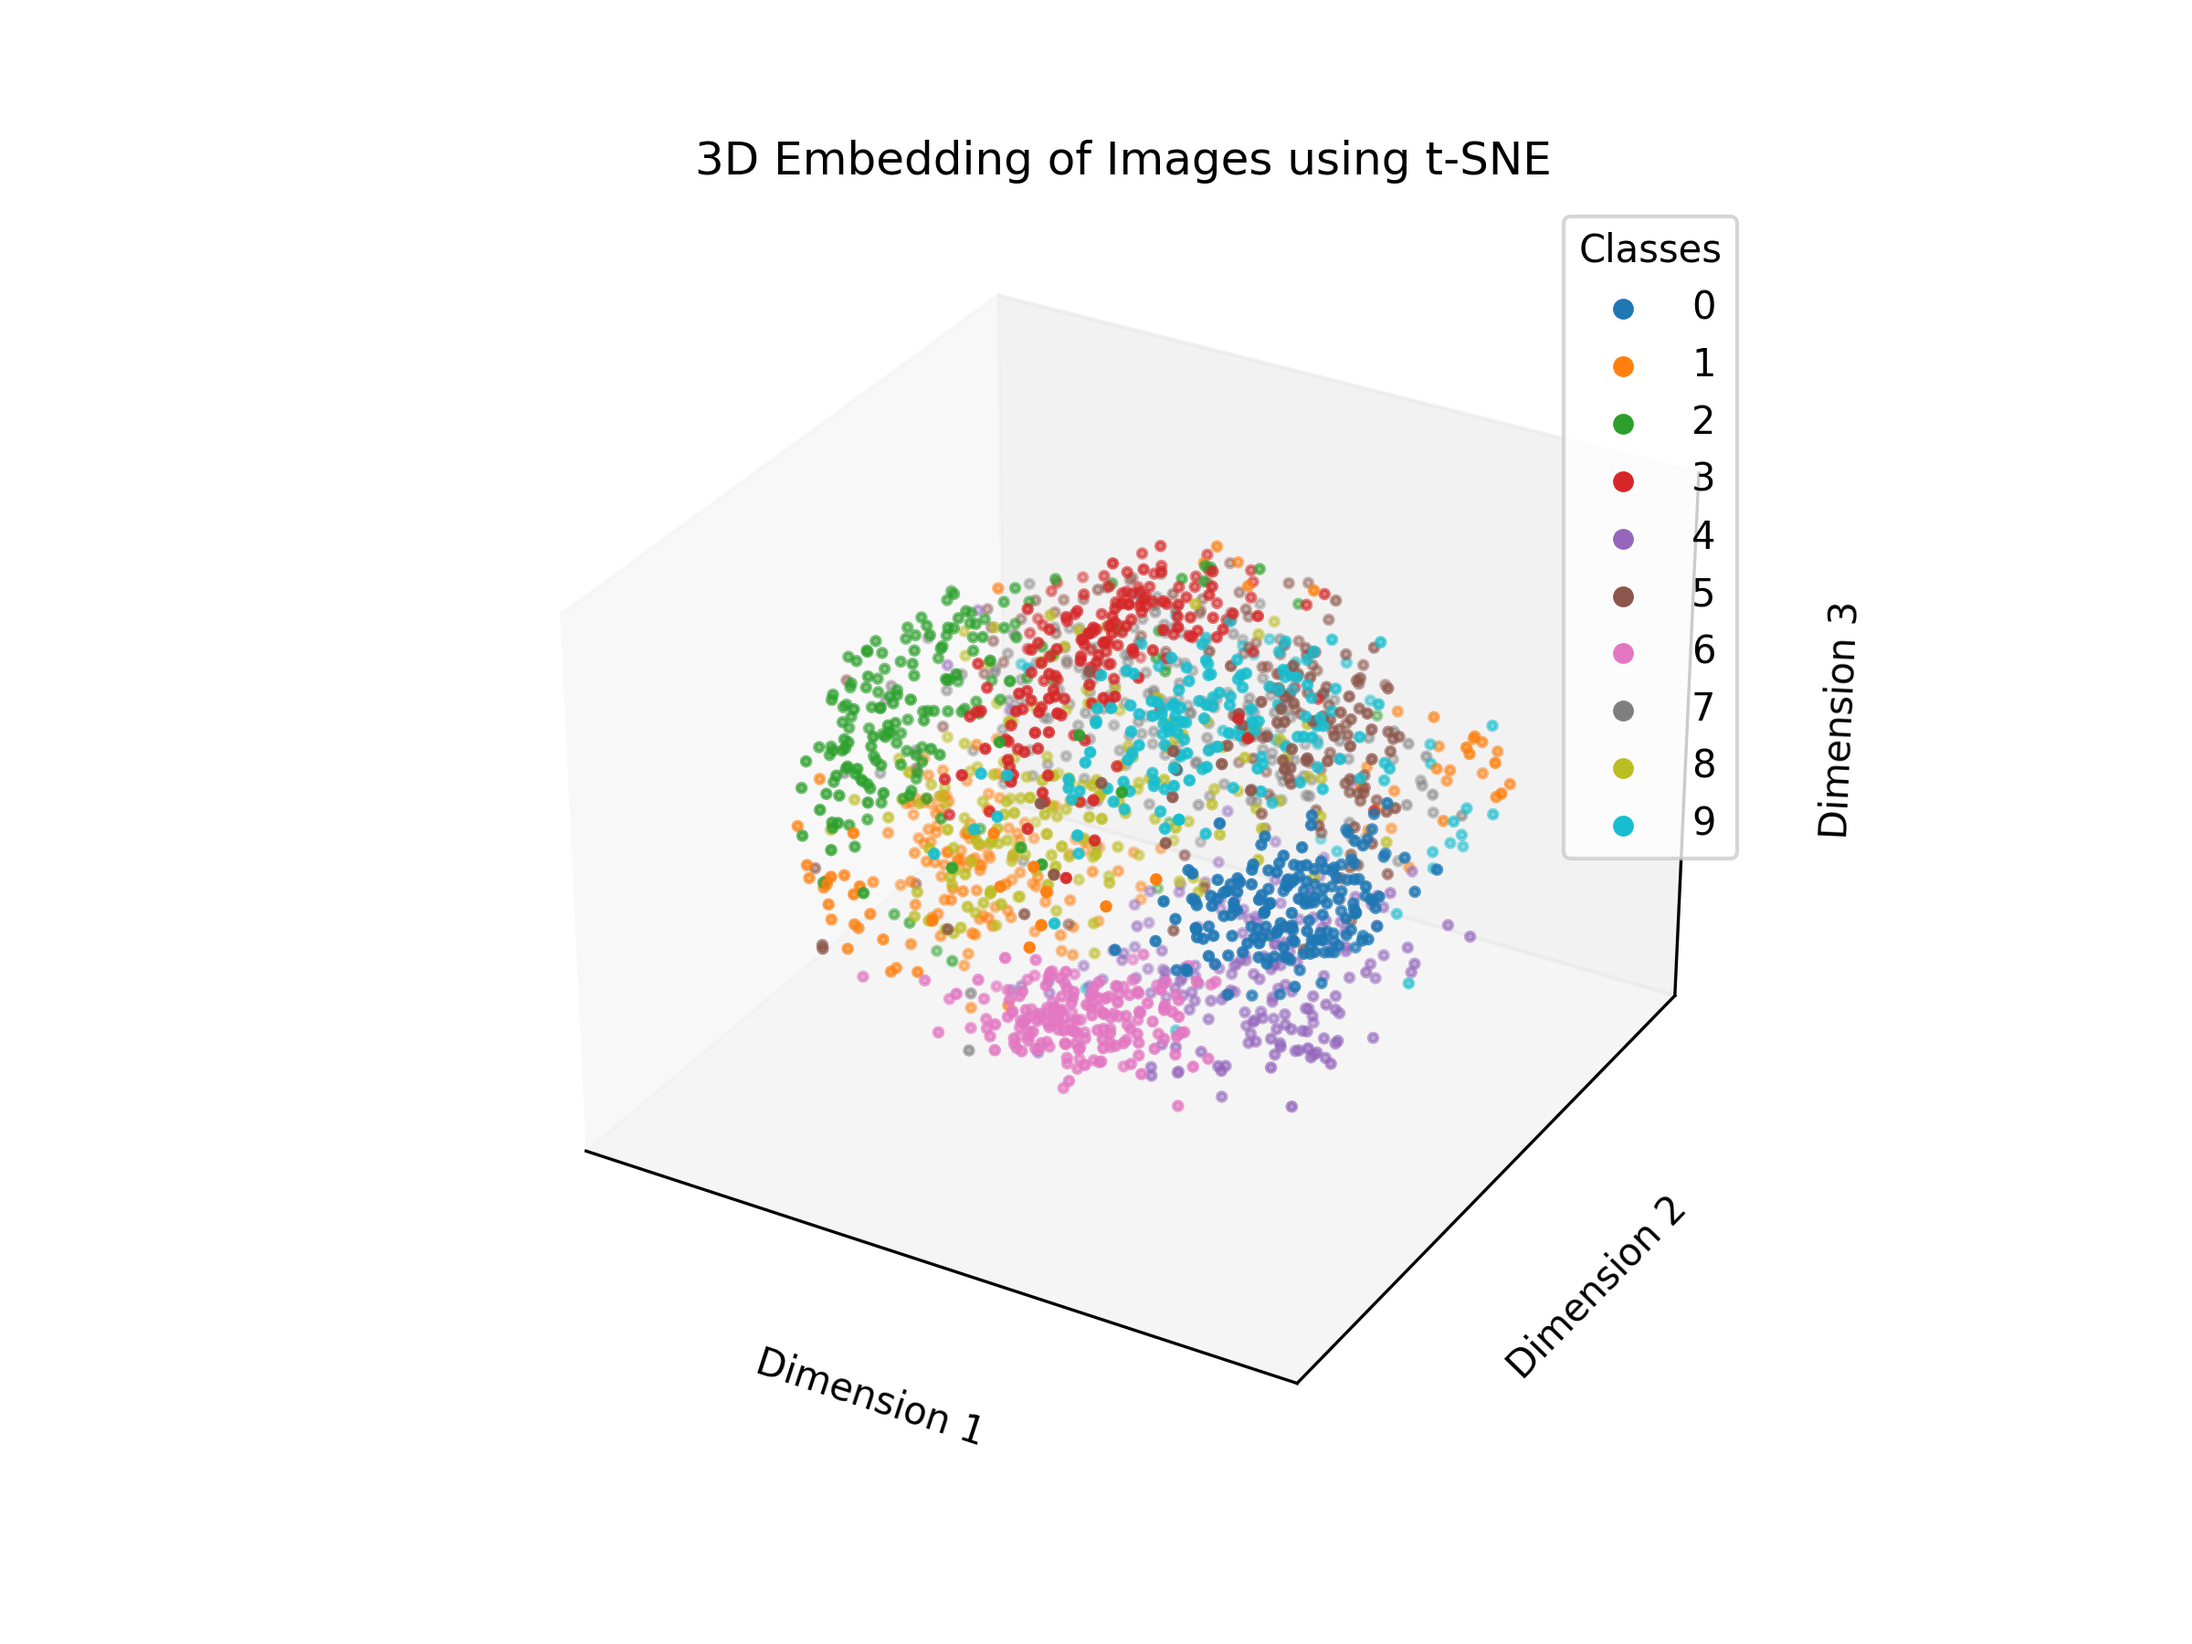
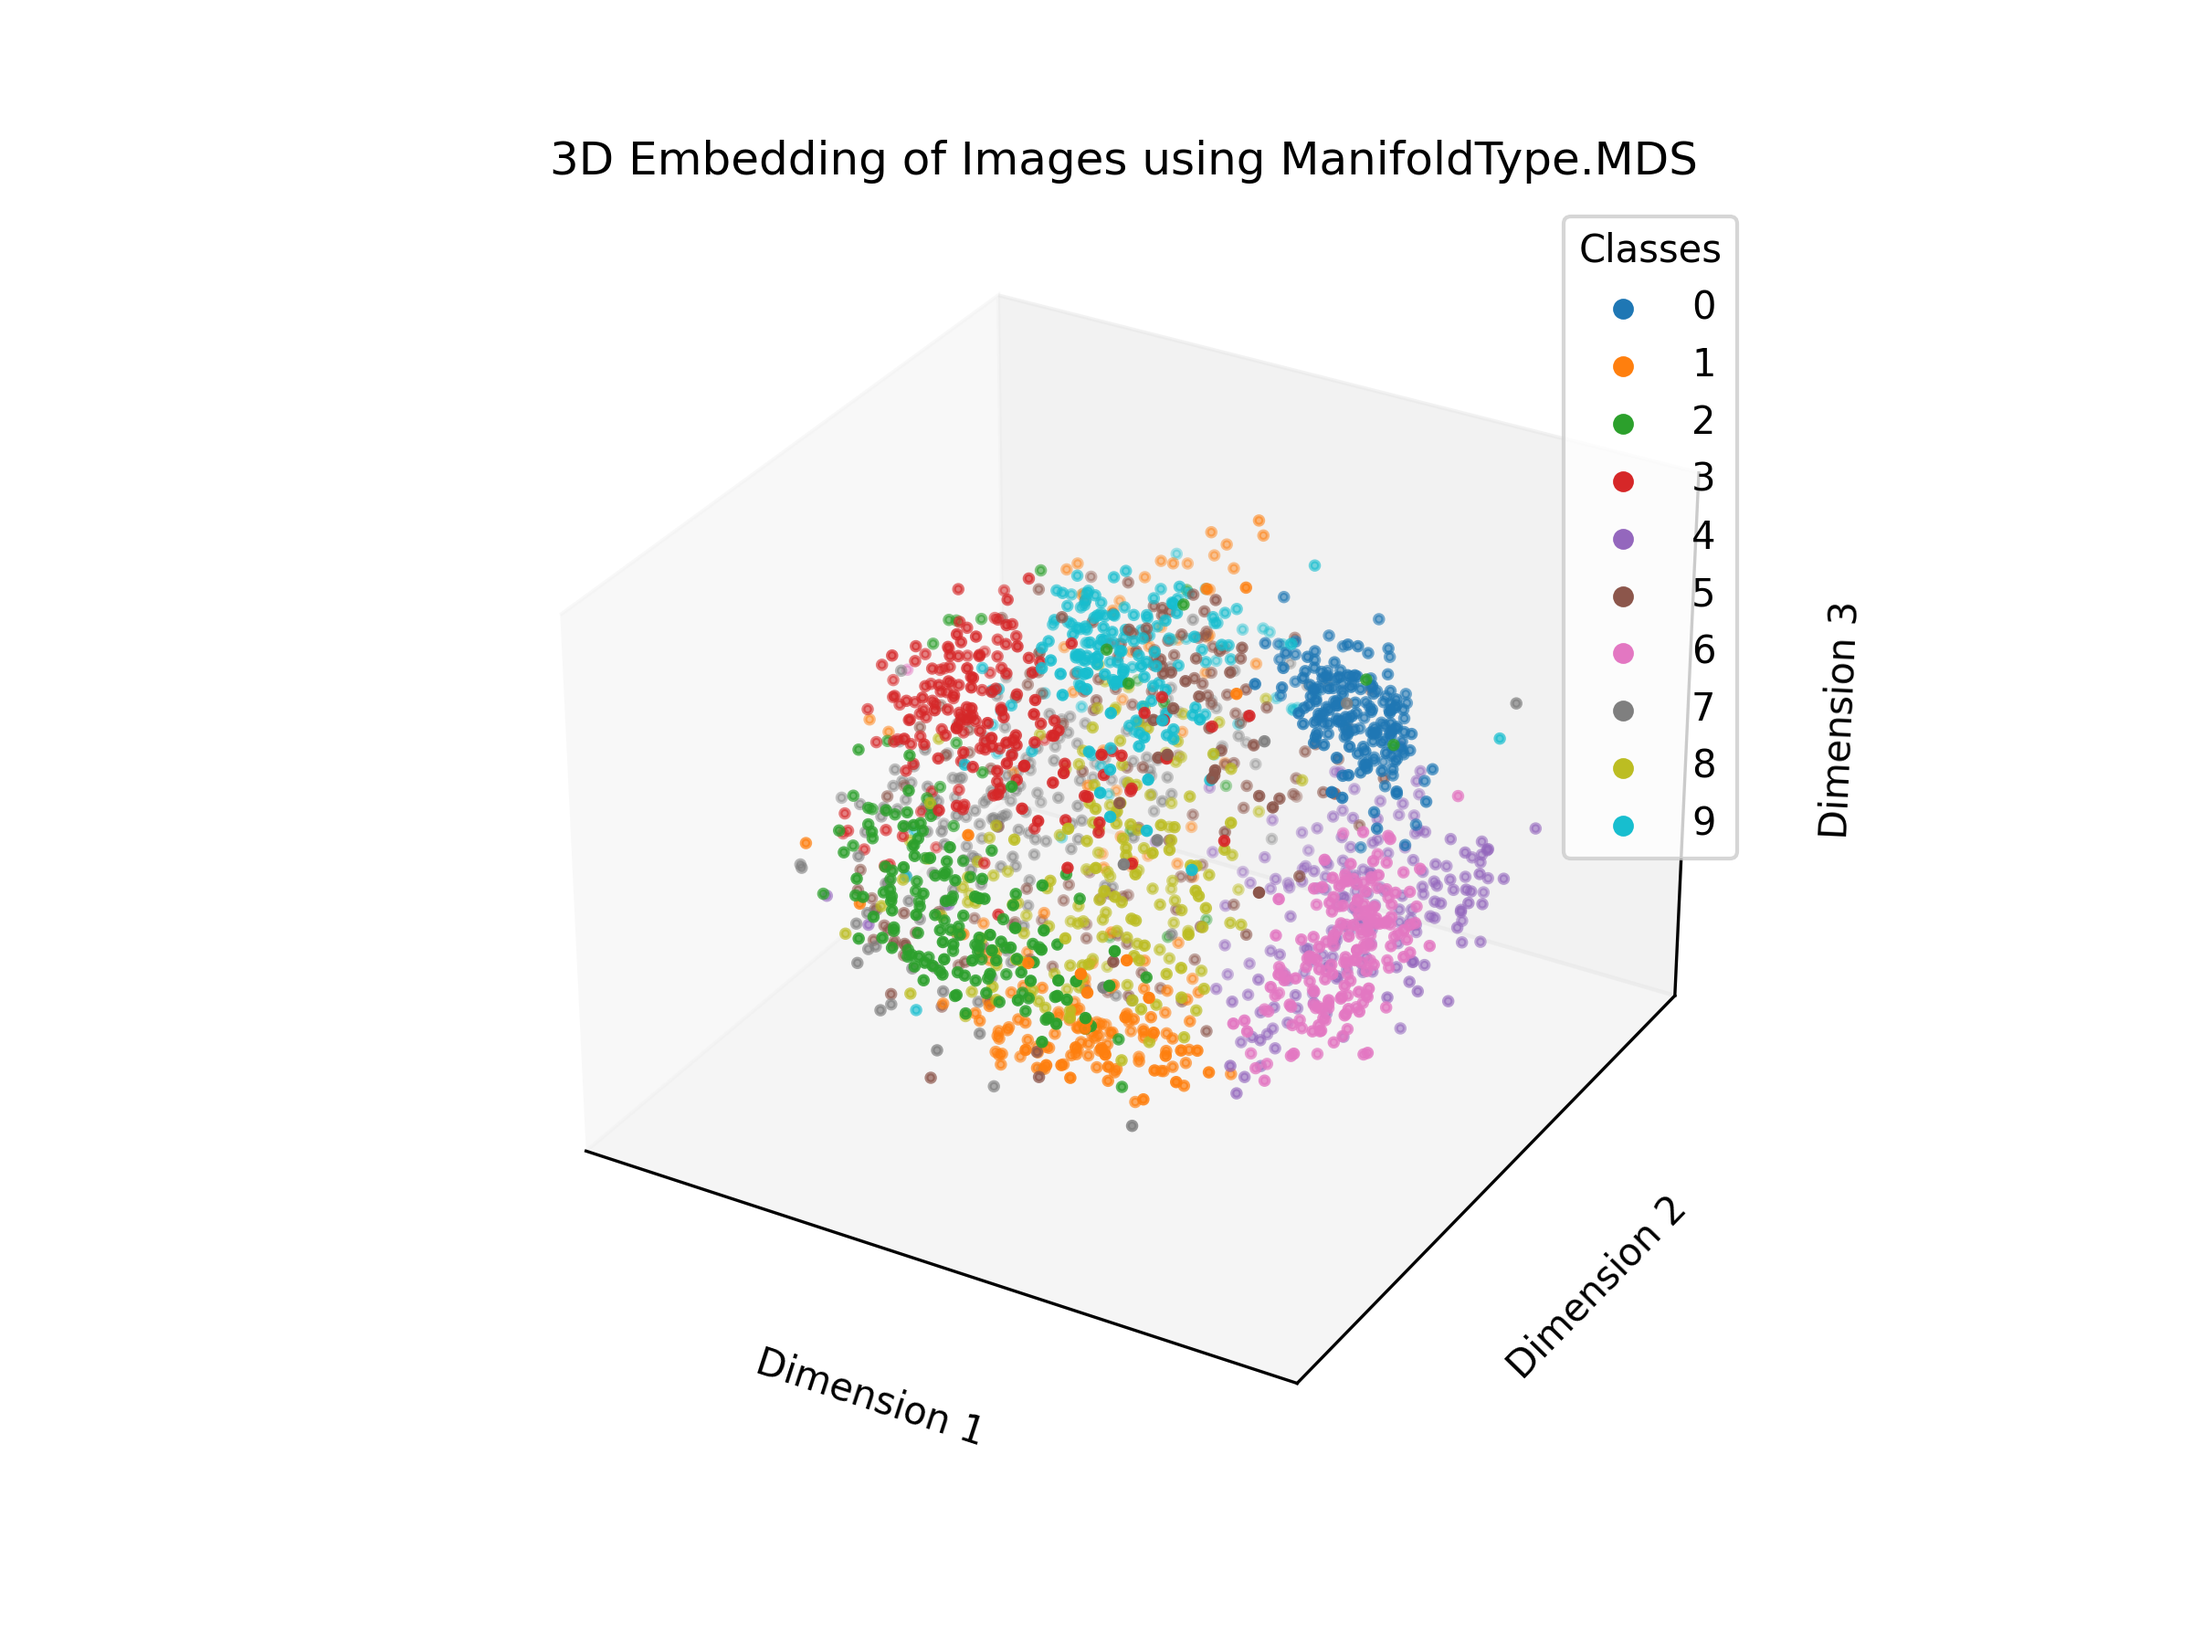
tests: correct the subplot titles

Changed region(s): [[0.3438, 0.3111, 0.6875, 0.6844], [0.25, 0.0622, 0.7812, 0.1244]]

diff --git a/tests/test_visualizations.py b/tests/test_visualizations.py
@@ -13,17 +13,28 @@ from optical_toolkit.visualize.functions.manifold_type import ManifoldType
 def noise_images():
     height, width = 100, 100
     chans = 3
-    images = [np.random.rand(height, width, chans) for _ in range(50)]
-    return images
+    X = [np.random.rand(height, width, chans) for _ in range(50)]
+    return X
+
+
+@pytest.fixture
+def mnist_digits_data():
+    digits = load_digits()
+    X = digits.images
+    y = digits.target
+
+    return X, y
 
 
 def test_visualize_images(noise_images):
-    visualize_images(noise_images, 100 * 2, fname="noise_image_grid.png")
+    visualize_images(noise_images, image_size=100 *
+                     2, fname="noise_image_grid.png")
 
 
 def test_visualize_images_bordered(noise_images):
     visualize_images(
-        noise_images, 100 * 2,
+        noise_images,
+        image_size=100 * 2,
         border_size=10,
         fname="noise_image_grid_bordered.png"
     )
@@ -41,10 +52,8 @@ manifold_types = [
 ]
 
 
-def test_compare_2d_embeddings():
-    digits = load_digits()
-    X = digits.images
-    y = digits.target
+def test_compare_2d_embeddings(mnist_digits_data):
+    X, y = mnist_digits_data
 
     rows = cols = math.ceil(math.sqrt(len(manifold_types)))
     fig, axes = plt.subplots(rows, cols, figsize=(4 * cols, 4 * rows))
@@ -72,10 +81,8 @@ def test_compare_2d_embeddings():
     plt.show()
 
 
-def test_compare_3d_embeddings():
-    digits = load_digits()
-    X = digits.images
-    y = digits.target
+def test_compare_3d_embeddings(mnist_digits_data):
+    X, y = mnist_digits_data
 
     rows = cols = math.ceil(math.sqrt(len(manifold_types)))
     fig, axes = plt.subplots(rows, cols, figsize=(4 * cols, 4 * rows))

diff --git a/optical_toolkit/visualize/embeddings.py b/optical_toolkit/visualize/embeddings.py
@@ -59,7 +59,7 @@ def get_embeddings(X,
     plt.figure(figsize=(8, 6))
     if dims == 2:
         plt.scatter(embedding[:, 0], embedding[:, 1], s=5, c=colors)
-        plt.title("2D Embedding of Images using t-SNE")
+        plt.title(f"2D Embedding of Images using {embedding_type}")
         plt.xlabel("Dimension 1")
         plt.ylabel("Dimension 2")
         plt.xticks([])
@@ -84,7 +84,7 @@ def get_embeddings(X,
         ax = plt.axes(projection="3d")
         ax.scatter(embedding[:, 0], embedding[:, 1],
                    embedding[:, 2], s=5, c=colors)
-        ax.set_title("3D Embedding of Images using t-SNE")
+        ax.set_title(f"3D Embedding of Images using {embedding_type}")
         ax.set_xlabel("Dimension 1")
         ax.set_ylabel("Dimension 2")
         ax.set_zlabel("Dimension 3")

diff --git a/optical_toolkit/visualize/visualize_images.py b/optical_toolkit/visualize/visualize_images.py
@@ -8,7 +8,7 @@ from optical_toolkit.core import add_border, preprocess
 
 
 def visualize_images(
-    images, image_size=200, border_size=0, fname="sprite.png"
+    images, y=None, image_size=200, border_size=0, fname="sprite.png"
 ):
     """Create a sprite image from input data."""
     images = [cv2.resize(img, (image_size, image_size))
@@ -23,7 +23,6 @@ def visualize_images(
 
     sprite_image = create_sprite_image(images)
 
-    sprite_image = np.clip(sprite_image, 0, 1)
     output_path = os.path.join("examples", fname)
     plt.imsave(output_path, sprite_image)
 

diff --git a/optical_toolkit/core/min_max_normalize.py b/optical_toolkit/core/min_max_normalize.py
@@ -38,3 +38,6 @@ def min_max_normalize_images(X, min_val=0, max_val=1):
 
     images = [min_max_normalize(x, min_val, max_val) for x in X]
     return images
+
+
+__all__ = [min_max_normalize_images]
